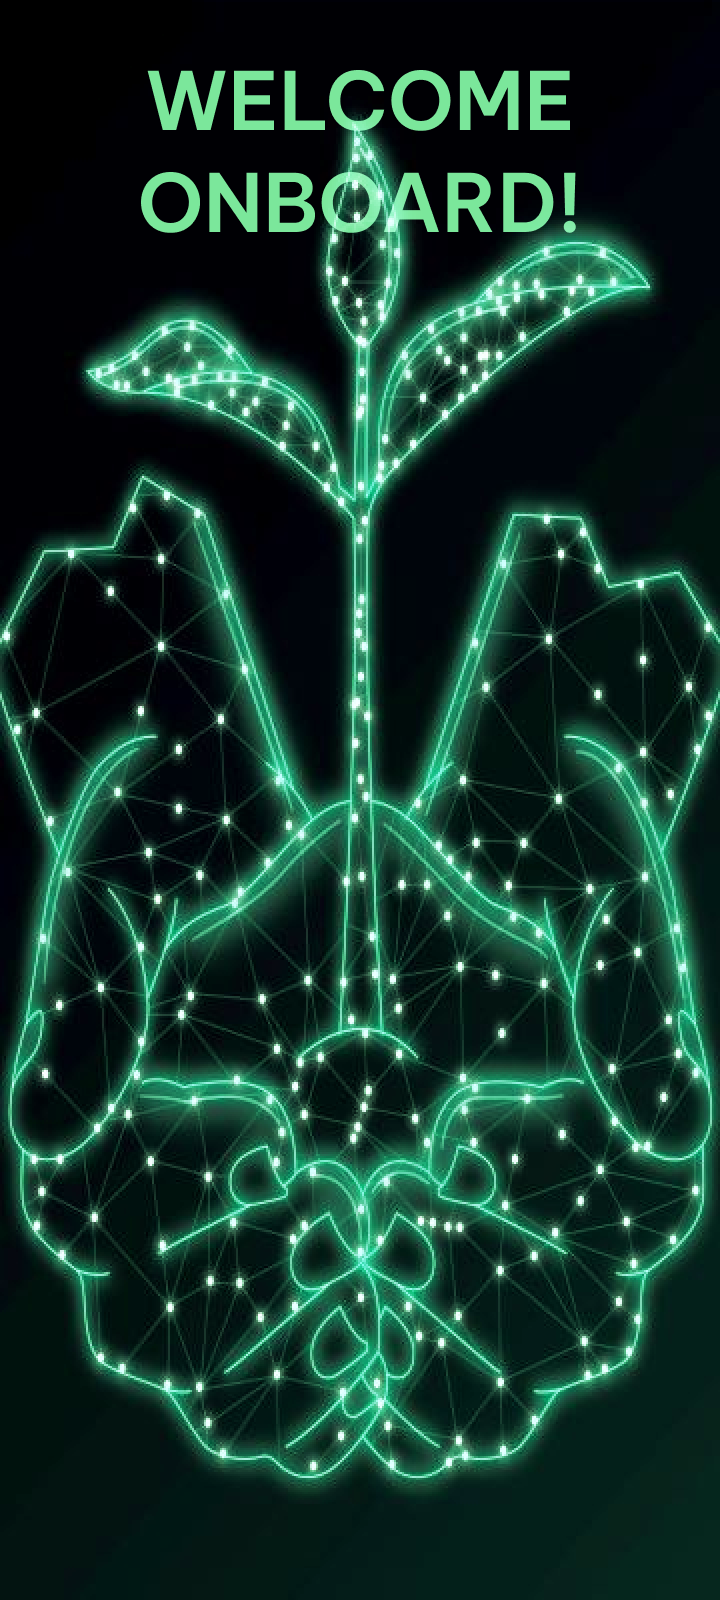
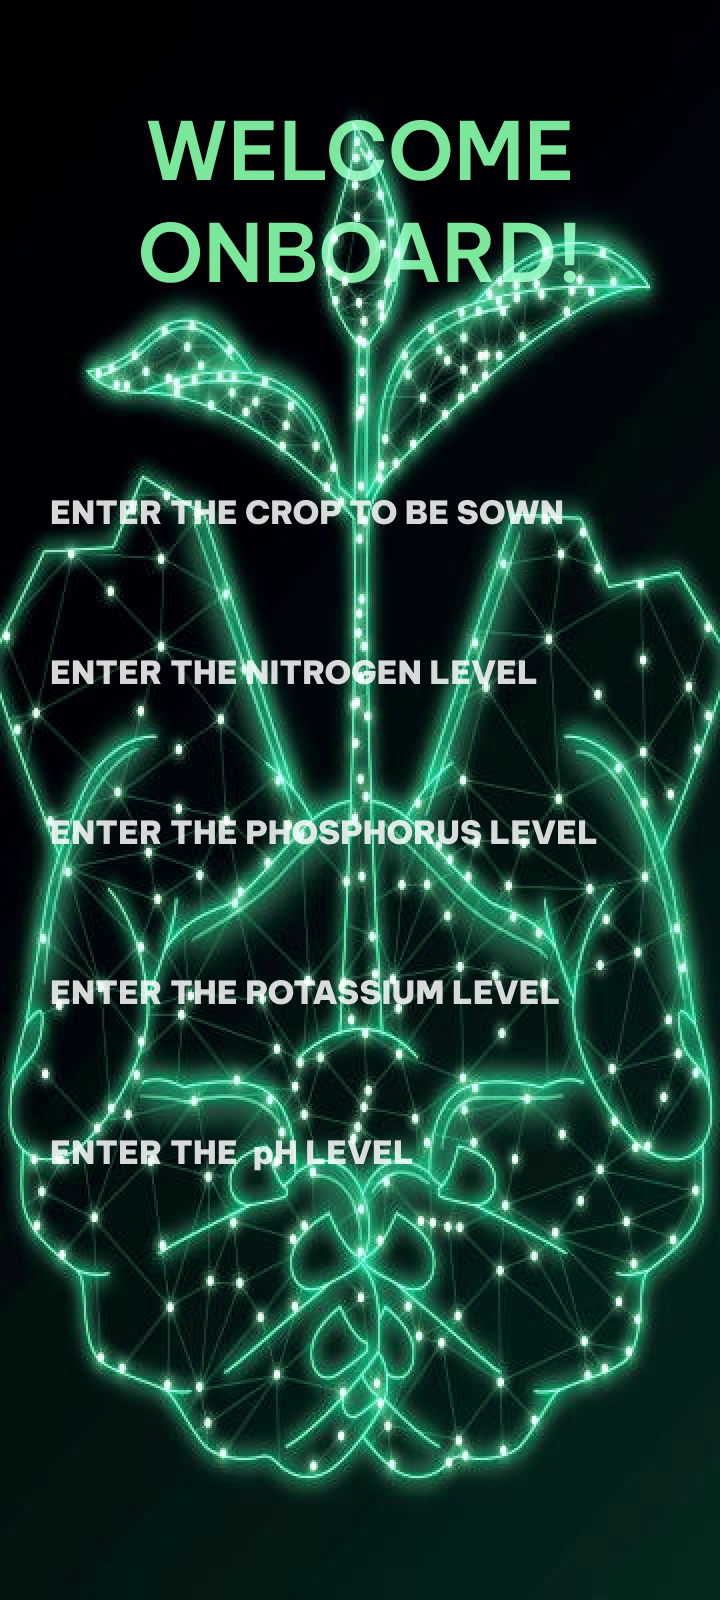
modified homepage and added result page

diff --git a/lib/features/auth/screens/home_page.dart b/lib/features/auth/screens/home_page.dart
@@ -1,28 +1,115 @@
 import 'package:flutter/material.dart';
+import 'package:plantect/features/auth/screens/result_page.dart';
 
 class HomePage extends StatefulWidget {
-  const HomePage({super.key});
+  const HomePage({Key? key}) : super(key: key);
+
   @override
   State<HomePage> createState() => _HomePageState();
 }
 
 class _HomePageState extends State<HomePage> {
+  final TextEditingController cropController = TextEditingController();
+  final TextEditingController nitrogenController = TextEditingController();
+  final TextEditingController phosphorusController = TextEditingController();
+  final TextEditingController potassiumController = TextEditingController();
+  final TextEditingController phController = TextEditingController();
+
   @override
   Widget build(BuildContext context) {
     return Scaffold(
-      body: Column(
-        children: [
-          Container(
-            height: MediaQuery.of(context).size.height,
-            width: MediaQuery.of(context).size.width,
-            decoration: const BoxDecoration(
-              image: DecorationImage(
-                image: AssetImage('assets/images/home_page.png'),
-                fit: BoxFit.cover,
-              ),
+      body: SingleChildScrollView(
+        child: Container(
+          height: MediaQuery.of(context).size.height,
+          width: MediaQuery.of(context).size.width,
+          decoration: const BoxDecoration(
+            image: DecorationImage(
+              image: AssetImage('assets/images/home_page.png'),
+              fit: BoxFit.fill,
             ),
           ),
-        ],
+          child: Column(
+            children: [
+              SizedBox(height: MediaQuery.of(context).size.height * 0.34),
+              _buildInputField(
+                controller: cropController,
+                hintText: 'CROP NAME',
+              ),
+              //SizedBox(height: MediaQuery.of(context).size.height * 0.05),
+              const SizedBox(height: 45),
+              _buildInputField(
+                controller: nitrogenController,
+                hintText: 'NITROGEN LEVEL',
+              ),
+              const SizedBox(height: 45),
+              _buildInputField(
+                controller: phosphorusController,
+                hintText: 'PHOSPHORUS LEVEL',
+              ),
+              const SizedBox(height: 45),
+              _buildInputField(
+                controller: potassiumController,
+                hintText: 'POTASSIUM LEVEL',
+              ),
+              const SizedBox(height: 45),
+              _buildInputField(
+                controller: phController,
+                hintText: 'pH LEVEL',
+              ),
+              const SizedBox(height: 55),
+              ElevatedButton(
+                onPressed: () {
+                  Navigator.push(
+                    context,
+                    MaterialPageRoute(
+                      builder: (context) => const ResultPage(),
+                    ),
+                  );
+                },
+                style: ButtonStyle(
+                  shape: MaterialStateProperty.all<RoundedRectangleBorder>(
+                    RoundedRectangleBorder(
+                      borderRadius: BorderRadius.circular(10.0),
+                    ),
+                  ),
+                  backgroundColor:
+                      MaterialStateProperty.all(const Color(0xFFA5EFBA)),
+                  minimumSize: MaterialStateProperty.all(
+                    Size(MediaQuery.of(context).size.width / 1.05, 55),
+                  ),
+                ),
+                child: const Text(
+                  "VIEW RESULTS",
+                  style: TextStyle(
+                      color: Color(0xFF053710),
+                      fontSize: 20,
+                      fontWeight: FontWeight.w600),
+                ),
+              ),
+            ],
+          ),
+        ),
+      ),
+    );
+  }
+
+  Widget _buildInputField({
+    required TextEditingController controller,
+    required String hintText,
+  }) {
+    return Container(
+      margin: const EdgeInsets.symmetric(horizontal: 20),
+      decoration: BoxDecoration(
+        color: const Color(0xFFA5EFBA),
+        borderRadius: BorderRadius.circular(10),
+      ),
+      child: TextFormField(
+        controller: controller,
+        decoration: InputDecoration(
+          border: InputBorder.none,
+          contentPadding: const EdgeInsets.all(10),
+          hintText: hintText,
+        ),
       ),
     );
   }

diff --git a/lib/features/auth/screens/result_page.dart b/lib/features/auth/screens/result_page.dart
@@ -1,0 +1,33 @@
+import 'package:flutter/material.dart';
+
+class ResultPage extends StatefulWidget {
+  const ResultPage({Key? key}) : super(key: key);
+
+  @override
+  State<ResultPage> createState() => _ResultPageState();
+}
+
+class _ResultPageState extends State<ResultPage> {
+  @override
+  Widget build(BuildContext context) {
+    return Scaffold(
+      body: SingleChildScrollView(
+        child: Container(
+          height: MediaQuery.of(context).size.height,
+          width: MediaQuery.of(context).size.width,
+          decoration: const BoxDecoration(
+            image: DecorationImage(
+              image: AssetImage('assets/images/result_page.png'),
+              fit: BoxFit.fill,
+            ),
+          ),
+          child: Column(
+            children: [
+              SizedBox(height: MediaQuery.of(context).size.height * 0.34),
+            ],
+          ),
+        ),
+      ),
+    );
+  }
+}
